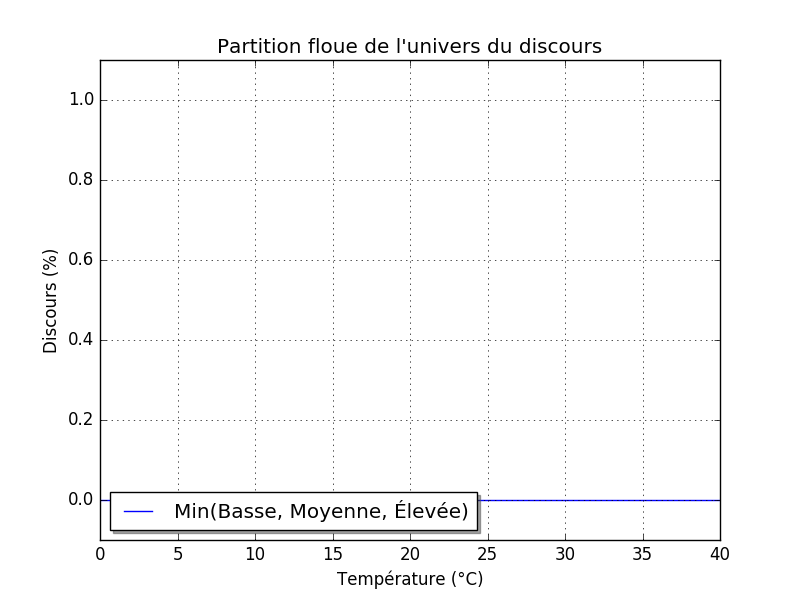
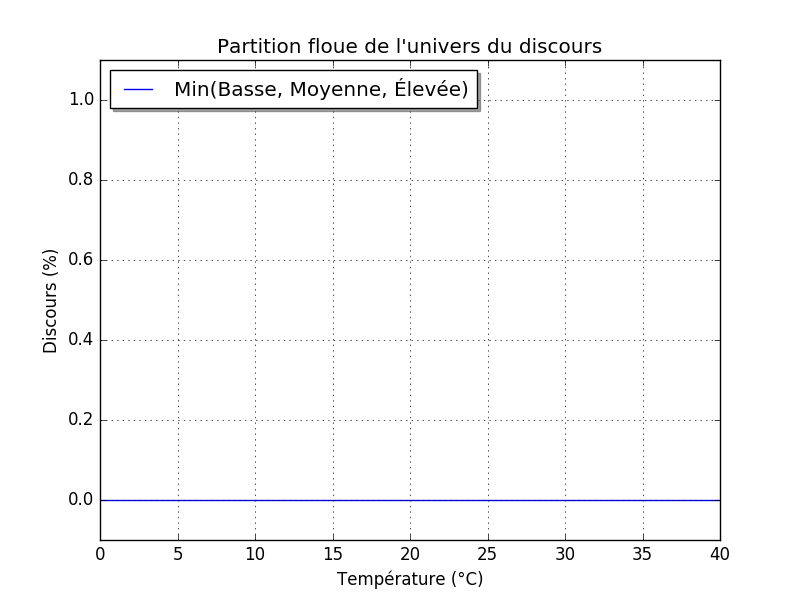
add code and image to report, text to write

Changed region(s): [[0.125, 0.09, 0.625, 0.21], [0.125, 0.81, 0.625, 0.9]]

diff --git a/rapport.tex b/rapport.tex
@@ -6,6 +6,8 @@
 \usepackage[frenchb]{babel}
 \usepackage{amsmath}
 \usepackage{listings}
+\usepackage{textcomp}
+\usepackage{gensymb}
 
 % define our color
 \usepackage{xcolor}
@@ -61,9 +63,170 @@
 %	INTRODUCTION
 %----------------------------------------------------------------------------------------
 
-\section{Introduction}
+\section{Introduction -BROUILLON}
 
 \subsection{Motivation}
+Parfois la logique booléenne pas suffisante. En particulier en reconnaissance de formes, car des formes peuvent donner l'impression d'être fusionnées alors que ce n'est pas le cas, et inversement. Donc on peut pas dire c'est séparé ou, c'est la même chose.
+
+\subsection{Motivation}
+Pour ça on utilise la Fuzzy logique, pour faire des transitions. Par exemple : à cet endroit c'est plutôt dans la zone A et un peu moins dans la zone B, puis ici on est + dans la zone B TOUT ÇA QUOI.
+On va expliquer ça avec des exemples :
+
+\clearpage
+%----------------------------------------------------------------------------------------
+%	FONCTIONS D'APPARTENANCE
+%----------------------------------------------------------------------------------------
+
+\section{Fonctions d'appartenance -BROUILLON}:
+
+\begin{lstlisting}
+def basse(t):
+    return np.clip((-t + 20.) * 0.1, 0., 1.)
+
+def moyenne(t):
+    return 1. - np.clip(np.sign(t - 20) * (t - 20) * 0.1, 0., 1.)
+
+def elevee(t):
+    return np.clip((t - 20.) * 0.1, 0., 1.)
+\end{lstlisting}
+
+\subsection{Programme générant l'ensemble flou}
+\begin{figure}[h]
+\begin{center}
+	\includegraphics[width=400px]{plot_3.png}
+\end{center}
+\caption{Discours associé à la température en °C}
+\end{figure}
+
+\subsection{Degré d'appartenance}
+
+\subsubsection{Trace}
+\begin{lstlisting}
+def get_appartenance(t):
+    return [basse(t), moyenne(t), elevee(t)]
+
+def print_appartenance(t):
+    l = get_appartenance(t)
+    print("Basse = ",l[0])
+    print("Moyenne = ",l[1])
+    print("Elevee = ",l[2])
+\end{lstlisting}
+
+\subsubsection{Trace}
+\begin{lstlisting}[mathescape]
+Question 2 : Appartenance de 16${^\circ}$C
+Basse =  40.0 %
+Moyenne =  60.0 %
+Elevee =  0.0 %
+\end{lstlisting}
+
+\begin{figure}[h]
+\begin{center}
+	\includegraphics[width=400px]{plot_3_16dC.png}
+\end{center}
+\caption{Appartenance pour une température de 16°C}
+\end{figure}
+
+\subsection{Température basse ou moyenne}
+
+\begin{lstlisting}
+def basse_ou_moyenne(t):
+    return np.maximum(basse(t), moyenne(t))
+\end{lstlisting}
+
+\begin{figure}[h]
+\begin{center}
+	\includegraphics[width=400px]{plot_basse_ou_moyenne.png}
+\end{center}
+\caption{Température basse OU moyenne}
+\end{figure}
+
+
+\clearpage
+%----------------------------------------------------------------------------------------
+%	Opérateurs de la logique floue
+%----------------------------------------------------------------------------------------
+
+\section{Opérateurs de la logique floue -BROUILLON}:
+
+\subsection{Explication}
+
+\subsection{Opérateur min}
+\begin{lstlisting}
+def op_min(fs, t):
+    res = []
+    for f in fs:
+        if res == []:
+            res = f(t)
+        else :
+            newRes = np.minimum(res, f(t))
+            res = newRes
+    return res
+\end{lstlisting}
+
+\begin{figure}[h]
+\begin{center}
+	\includegraphics[width=400px]{plot_test_min.png}
+\end{center}
+\caption{min(Basse, Moyenne, Élevée)}
+\end{figure}
+
+\subsection{Opérateur max}
+\begin{lstlisting}
+def op_max(fs, t):
+    res = []
+    for f in fs:
+        if res == []:
+            res = f(t)
+        else :
+            newRes = np.maximum(res, f(t))
+            res = newRes
+    return res
+\end{lstlisting}
+
+\begin{figure}[h]
+\begin{center}
+	\includegraphics[width=400px]{plot_test_max.png}
+\end{center}
+\caption{max(Basse, Moyenne, Élevée)}
+\end{figure}
+
+
+\clearpage
+%----------------------------------------------------------------------------------------
+%	Implication floue
+%----------------------------------------------------------------------------------------
+
+\section{Implication floue -BROUILLON}:
+
+\subsection{Règle floue R}
+\begin{lstlisting}
+def chauffer_fort(t):
+    return np.clip((t - 8.) * 0.5, 0., 1.)
+\end{lstlisting}
+
+\begin{figure}[h]
+\begin{center}
+	\includegraphics[width=400px]{chauffer_fort.png}
+\end{center}
+\caption{Discours Chauffer fort en fonction de la Puissance de Chauffe}
+\end{figure}
+
+\subsection{Implication de Mamdani}
+
+\subsection{Ensemble flou de sortie}
+\begin{lstlisting}
+def mamdani(predicate, x0, conclusion, y):
+    return np.minimum(predicate(x0), conclusion(y))))
+\end{lstlisting}
+
+\begin{figure}[h]
+\begin{center}
+	\includegraphics[width=400px]{{chauffer_fort_12.0}.png}
+\end{center}
+\caption{Implication de Mamdani Température/Chauffe pour 12°C}
+\end{figure}
+
 
 \clearpage
 %----------------------------------------------------------------------------------------
@@ -72,6 +235,6 @@
 %	CONCLUSION
 %----------------------------------------------------------------------------------------
 
-\section{Conclusion}
+\section{Conclusion -BROUILLON}
 
 \end{document}

diff --git a/tp1.py b/tp1.py
@@ -37,15 +37,18 @@ def get_appartenance(t):
 
 def print_appartenance(t):
     l = get_appartenance(t)
-    print("Basse = ",l[0])
-    print("Moyenne = ",l[1])
-    print("Élevée = ",l[2])
+    print("Basse = ", l[0] * 100., "%")
+    print("Moyenne = ", l[1] * 100., "%")
+    print("Elevee = ", l[2] * 100., "%")
 
 #Question 3
+def basse_ou_moyenne(t):
+    return np.maximum(basse(t), moyenne(t))
+
 def plot_basse_ou_moyenne():
     t = np.arange(0., 45., 5.)
 
-    plt.plot(t, np.maximum(basse(t), moyenne(t)), label="Basse OU Moyenne")
+    plt.plot(t, basse_ou_moyenne(t), label="Basse OU Moyenne")
 
     plt.legend(loc='lower left', shadow=True)
     plt.axis([0, 40, -0.1, 1.1])
@@ -76,7 +79,7 @@ def plot_test_min():
     res = op_min([basse, moyenne, elevee], t)
     plt.plot(t, res, label="Min(Basse, Moyenne, Élevée)")
 
-    plt.legend(loc='lower left', shadow=True)
+    plt.legend(loc='upper left', shadow=True)
     plt.axis([0, 40, -0.1, 1.1])
     plt.xlabel('Température (°C)')
     plt.ylabel('Discours (%)')
